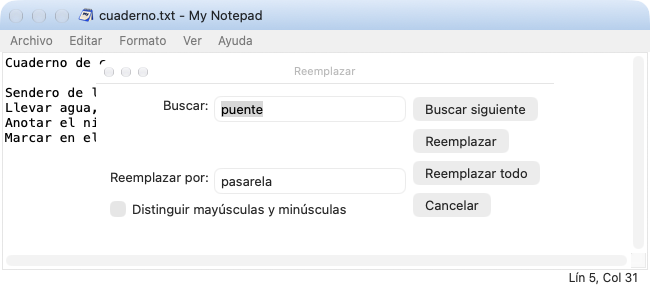
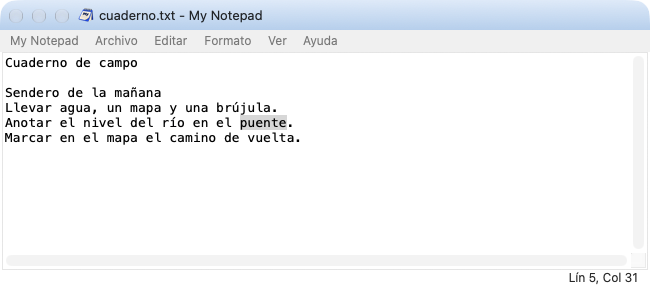
Publish My Notepad 1.0.3 for macOS
The menus inside the window start with My Notepad, the Replace panel always keeps
Replace with level with Replace All, and the screenshots show the editor without the
Replace panel, in eight languages.

diff --git a/Tests/main.swift b/Tests/main.swift
@@ -144,7 +144,11 @@ func item(_ menuTitle: String, _ identifier: String) -> NSMenuItem? {
 do {
   let titles = NSApp.mainMenu?.items.map(\.title) ?? []
   check(titles == ["My Notepad", "File", "Edit", "Format", "View", "Window", "Help"], "the menu bar has the application menu, the five of the original, Window and Help")
-  check(app.menuStrip.arrangedSubviews.count == 5, "the strip inside the window keeps the five menus of the original")
+  let stripTitles = app.menuStrip.arrangedSubviews.compactMap { ($0 as? NSButton)?.title }
+  check(stripTitles.count == 6 && stripTitles.first == "My Notepad",
+    "the strip inside the window opens with the application's menu, then the five menus of the original")
+  check(app.menuStrip.arrangedSubviews.compactMap { $0 as? NSButton }.filter { $0.tag >= 0 }.map(\.tag) == [0, 1, 2, 3, 4],
+    "the access keys still reach the five menus")
   let own = NSApp.mainMenu?.items.first?.submenu?.items.map(\.title) ?? []
   check(own.contains("About My Notepad") && own.contains("Hide My Notepad") && own.contains("Hide Others")
     && own.contains("Show All") && own.last == "Quit My Notepad", "the application menu has About, the hiding commands and Quit")
@@ -270,6 +274,18 @@ do {
   panel.exact.state = .on
   panel.replaceAll()
   check(app.editor.string == "Bridge, footbridge and BRIDGE", "Replace All respects Match case")
+
+  // The layout of the Replace panel used to be ambiguous: about one opening in a hundred put the
+  // Replace with field right under Find what. Lay it out many times and compare.
+  var tops: Set<Int> = []
+  for _ in 0..<200 {
+    let replace = FinderPanel(owner: app, replacing: true)
+    guard let content = replace.panel.contentView else { break }
+    content.layoutSubtreeIfNeeded()
+    tops.insert(Int(content.bounds.height - replace.sub.convert(replace.sub.bounds, to: content).maxY))
+    replace.panel.close()
+  }
+  check(tops.count == 1, "the Replace panel always places Replace with in the same spot")
 }
 
 // Font size

diff --git a/Sources/Menus.swift b/Sources/Menus.swift
@@ -17,6 +17,14 @@ extension Notepad {
     app.addItem(
       withTitle: L("Quit My Notepad"), action: #selector(NSApplication.terminate(_:)),
       keyEquivalent: "q")
+    // The application's own menu opens the strip too: it holds what has no other place in the
+    // window (hiding the application, quitting).
+    let appButton = NSButton(title: "My Notepad", target: self, action: #selector(showAppMenu(_:)))
+    appButton.font = .systemFont(ofSize: 12)
+    appButton.isBordered = false
+    appButton.tag = -1
+    appButton.widthAnchor.constraint(equalToConstant: appButton.intrinsicContentSize.width + 12).isActive = true
+    menuStrip.addArrangedSubview(appButton)
     for title in [L("File"), L("Edit"), L("Format"), L("View"), L("Help")] {
       let menu = NSMenu(title: title)
       main.addItem(withTitle: title, action: nil, keyEquivalent: "").submenu = menu
@@ -128,6 +136,10 @@ extension Notepad {
     add(4, "About My Notepad") { self.showAbout() }
   }
   @objc func invoke(_ item: NSMenuItem) { handlers[item.tag]?() }
+  @objc func showAppMenu(_ sender: NSButton) {
+    NSApp.mainMenu?.items.first?.submenu?.popUp(
+      positioning: nil, at: NSPoint(x: 0, y: sender.isFlipped ? sender.bounds.maxY : 0), in: sender)
+  }
   @objc func showMenu(_ sender: NSButton) {
     menus[sender.tag].popUp(
       positioning: nil, at: NSPoint(x: 0, y: sender.isFlipped ? sender.bounds.maxY : 0), in: sender)

diff --git a/Sources/App.swift b/Sources/App.swift
@@ -101,7 +101,9 @@ final class Notepad: NSObject, NSApplicationDelegate, NSWindowDelegate, NSTextVi
     if mods == .option, let key = event.charactersIgnoringModifiers?.lowercased(),
       let i = L("menu.accessKeys").map(String.init).firstIndex(of: key)
     {
-      showMenu(menuStrip.arrangedSubviews[i] as! NSButton)
+      if let button = menuStrip.arrangedSubviews.compactMap({ $0 as? NSButton }).first(where: { $0.tag == i }) {
+        showMenu(button)
+      }
       return true
     }
     if window.firstResponder === editor, !editor.hasMarkedText(),

diff --git a/Sources/Search.swift b/Sources/Search.swift
@@ -65,6 +65,10 @@ final class FinderPanel: NSObject {
       rows.append((L("Direction:"), direction))
     }
     let grid = owner.form(rows)
+    // The buttons column is taller than the fields, so the grid is stretched. Without this, which
+    // row takes the extra height is ambiguous and the Replace with field sometimes moved up.
+    grid.row(at: 0).height = term.fittingSize.height
+    grid.row(at: 1).yPlacement = .bottom
     let buttons = NSStackView()
     buttons.orientation = .vertical
     buttons.alignment = .leading

diff --git a/docs/readme/ja.md b/docs/readme/ja.md
@@ -8,8 +8,8 @@ macOS 用のシンプルなテキストエディタです。.txt ファイルを
 
 ## macOS 版のダウンロード
 
-- **[Apple シリコン（M シリーズ）用をダウンロード](https://github.com/leoars/My-Notepad/releases/download/1.0.2/My-Notepad-1.0.2-arm64.pkg)**
-- **[Intel 用をダウンロード](https://github.com/leoars/My-Notepad/releases/download/1.0.2/My-Notepad-1.0.2-x86_64.pkg)**
+- **[Apple シリコン（M シリーズ）用をダウンロード](https://github.com/leoars/My-Notepad/releases/download/1.0.3/My-Notepad-1.0.3-arm64.pkg)**
+- **[Intel 用をダウンロード](https://github.com/leoars/My-Notepad/releases/download/1.0.3/My-Notepad-1.0.3-x86_64.pkg)**
 
 macOS 12 以降に対応しています。 [最新版を見る](https://github.com/leoars/My-Notepad/releases/latest)
 
@@ -68,7 +68,7 @@ My Notepad は、余計なもののないテキストエディタが欲しいと
 
 ### インターフェイスと言語
 
-- macOS のメニューバーに加えて、ウインドウ内にもメニュー（ファイル、編集、書式、表示、ヘルプ）があります。**Option** とメニューの文字キーを押すと、キーボードでメニューを開けます。
+- macOS のメニューバーに加えて、ウインドウ内にもメニュー（My Notepad、ファイル、編集、書式、表示、ヘルプ）があります。**Option** とメニューの文字キーを押すと、キーボードでメニューを開けます。
 - ウインドウの位置とサイズは記憶されます。
 - ポルトガル語、英語、スペイン語、フランス語、ドイツ語、イタリア語、日本語、韓国語に対応しています。
 

diff --git a/docs/readme/ko.md b/docs/readme/ko.md
@@ -8,8 +8,8 @@ macOS용 간단한 텍스트 편집기입니다. .txt 파일을 열고, 쓰고, 
 
 ## macOS용 다운로드
 
-- **[Apple Silicon(M 시리즈)용 다운로드](https://github.com/leoars/My-Notepad/releases/download/1.0.2/My-Notepad-1.0.2-arm64.pkg)**
-- **[Intel용 다운로드](https://github.com/leoars/My-Notepad/releases/download/1.0.2/My-Notepad-1.0.2-x86_64.pkg)**
+- **[Apple Silicon(M 시리즈)용 다운로드](https://github.com/leoars/My-Notepad/releases/download/1.0.3/My-Notepad-1.0.3-arm64.pkg)**
+- **[Intel용 다운로드](https://github.com/leoars/My-Notepad/releases/download/1.0.3/My-Notepad-1.0.3-x86_64.pkg)**
 
 macOS 12 이상이 필요합니다. [최신 릴리스 보기](https://github.com/leoars/My-Notepad/releases/latest)
 
@@ -68,7 +68,7 @@ My Notepad는 군더더기 없는 텍스트 편집기가 아쉬워서 시작한 
 
 ### 인터페이스와 언어
 
-- macOS 메뉴 막대와 별도로 창 안에도 메뉴(파일, 편집, 서식, 보기, 도움말)가 있습니다. **Option** 키와 메뉴의 글자 키를 함께 누르면 키보드로 메뉴를 열 수 있습니다.
+- macOS 메뉴 막대와 별도로 창 안에도 메뉴(My Notepad, 파일, 편집, 서식, 보기, 도움말)가 있습니다. **Option** 키와 메뉴의 글자 키를 함께 누르면 키보드로 메뉴를 열 수 있습니다.
 - 창의 위치와 크기를 기억합니다.
 - 포르투갈어, 영어, 스페인어, 프랑스어, 독일어, 이탈리아어, 일본어, 한국어를 지원합니다.
 

diff --git a/docs/readme/de.md b/docs/readme/de.md
@@ -8,8 +8,8 @@ Ein einfacher Texteditor für macOS. Eine .txt-Datei öffnen, schreiben und mit 
 
 ## Download für macOS
 
-- **[Für Apple Silicon (M-Serie) herunterladen](https://github.com/leoars/My-Notepad/releases/download/1.0.2/My-Notepad-1.0.2-arm64.pkg)**
-- **[Für Intel herunterladen](https://github.com/leoars/My-Notepad/releases/download/1.0.2/My-Notepad-1.0.2-x86_64.pkg)**
+- **[Für Apple Silicon (M-Serie) herunterladen](https://github.com/leoars/My-Notepad/releases/download/1.0.3/My-Notepad-1.0.3-arm64.pkg)**
+- **[Für Intel herunterladen](https://github.com/leoars/My-Notepad/releases/download/1.0.3/My-Notepad-1.0.3-x86_64.pkg)**
 
 Erfordert macOS 12 oder neuer. [Zur neuesten Version](https://github.com/leoars/My-Notepad/releases/latest)
 
@@ -68,7 +68,7 @@ Schreiben Sie `.LOG` in die erste Zeile einer Datei, speichern Sie sie und öffn
 
 ### Oberfläche und Sprachen
 
-- Menüs im Fenster (Datei, Bearbeiten, Format, Ansicht, Hilfe), zusätzlich zur Menüleiste von macOS. **Option** und der Buchstabe eines Menüs öffnen es über die Tastatur.
+- Menüs im Fenster (My Notepad, Datei, Bearbeiten, Format, Ansicht, Hilfe), zusätzlich zur Menüleiste von macOS. **Option** und der Buchstabe eines Menüs öffnen es über die Tastatur.
 - Position und Größe des Fensters bleiben gespeichert.
 - Verfügbar auf Portugiesisch, Englisch, Spanisch, Französisch, Deutsch, Italienisch, Japanisch und Koreanisch.
 

diff --git a/docs/readme/fr.md b/docs/readme/fr.md
@@ -8,8 +8,8 @@ Un éditeur de texte simple pour macOS. Ouvrez un .txt, écrivez et enregistrez 
 
 ## Télécharger pour macOS
 
-- **[Télécharger pour Apple Silicon (série M)](https://github.com/leoars/My-Notepad/releases/download/1.0.2/My-Notepad-1.0.2-arm64.pkg)**
-- **[Télécharger pour Intel](https://github.com/leoars/My-Notepad/releases/download/1.0.2/My-Notepad-1.0.2-x86_64.pkg)**
+- **[Télécharger pour Apple Silicon (série M)](https://github.com/leoars/My-Notepad/releases/download/1.0.3/My-Notepad-1.0.3-arm64.pkg)**
+- **[Télécharger pour Intel](https://github.com/leoars/My-Notepad/releases/download/1.0.3/My-Notepad-1.0.3-x86_64.pkg)**
 
 Nécessite macOS 12 ou une version ultérieure. [Voir la dernière version](https://github.com/leoars/My-Notepad/releases/latest)
 
@@ -68,7 +68,7 @@ Saisissez `.LOG` sur la première ligne d’un fichier, enregistrez-le et ouvrez
 
 ### Interface et langues
 
-- Des menus dans la fenêtre (Fichier, Édition, Format, Affichage, Aide), en plus de la barre des menus de macOS. **Option** avec la lettre du menu l’ouvre au clavier.
+- Des menus dans la fenêtre (My Notepad, Fichier, Édition, Format, Affichage, Aide), en plus de la barre des menus de macOS. **Option** avec la lettre du menu l’ouvre au clavier.
 - La position et la taille de la fenêtre sont mémorisées.
 - Disponible en portugais, anglais, espagnol, français, allemand, italien, japonais et coréen.
 

diff --git a/docs/readme/it.md b/docs/readme/it.md
@@ -8,8 +8,8 @@ Un editor di testo semplice per macOS. Apri un .txt, scrivi e salva con le scorc
 
 ## Scarica per macOS
 
-- **[Scarica per Apple Silicon (serie M)](https://github.com/leoars/My-Notepad/releases/download/1.0.2/My-Notepad-1.0.2-arm64.pkg)**
-- **[Scarica per Intel](https://github.com/leoars/My-Notepad/releases/download/1.0.2/My-Notepad-1.0.2-x86_64.pkg)**
+- **[Scarica per Apple Silicon (serie M)](https://github.com/leoars/My-Notepad/releases/download/1.0.3/My-Notepad-1.0.3-arm64.pkg)**
+- **[Scarica per Intel](https://github.com/leoars/My-Notepad/releases/download/1.0.3/My-Notepad-1.0.3-x86_64.pkg)**
 
 Richiede macOS 12 o successivo. [Vedi la versione più recente](https://github.com/leoars/My-Notepad/releases/latest)
 
@@ -68,7 +68,7 @@ Scrivi `.LOG` sulla prima riga di un file, salvalo e riaprilo. L’editor aggiun
 
 ### Interfaccia e lingue
 
-- Menu all’interno della finestra (File, Modifica, Formato, Visualizza, Aiuto), oltre alla barra dei menu di macOS. **Option** con la lettera del menu lo apre dalla tastiera.
+- Menu all’interno della finestra (My Notepad, File, Modifica, Formato, Visualizza, Aiuto), oltre alla barra dei menu di macOS. **Option** con la lettera del menu lo apre dalla tastiera.
 - La posizione e la dimensione della finestra vengono ricordate.
 - Disponibile in portoghese, inglese, spagnolo, francese, tedesco, italiano, giapponese e coreano.
 

diff --git a/docs/readme/es.md b/docs/readme/es.md
@@ -8,8 +8,8 @@ Un editor de texto sencillo para macOS. Abre un .txt, escribe y guarda con los a
 
 ## Descargar para macOS
 
-- **[Descargar para Apple Silicon (serie M)](https://github.com/leoars/My-Notepad/releases/download/1.0.2/My-Notepad-1.0.2-arm64.pkg)**
-- **[Descargar para Intel](https://github.com/leoars/My-Notepad/releases/download/1.0.2/My-Notepad-1.0.2-x86_64.pkg)**
+- **[Descargar para Apple Silicon (serie M)](https://github.com/leoars/My-Notepad/releases/download/1.0.3/My-Notepad-1.0.3-arm64.pkg)**
+- **[Descargar para Intel](https://github.com/leoars/My-Notepad/releases/download/1.0.3/My-Notepad-1.0.3-x86_64.pkg)**
 
 Requiere macOS 12 o posterior. [Ver la última versión](https://github.com/leoars/My-Notepad/releases/latest)
 
@@ -68,7 +68,7 @@ Escribe `.LOG` en la primera línea de un archivo, guárdalo y vuelve a abrirlo.
 
 ### Interfaz e idiomas
 
-- Menús dentro de la ventana (Archivo, Editar, Formato, Ver, Ayuda), además de la barra de menús de macOS. **Option** con la letra del menú lo abre desde el teclado.
+- Menús dentro de la ventana (My Notepad, Archivo, Editar, Formato, Ver, Ayuda), además de la barra de menús de macOS. **Option** con la letra del menú lo abre desde el teclado.
 - La posición y el tamaño de la ventana se recuerdan.
 - Disponible en portugués, inglés, español, francés, alemán, italiano, japonés y coreano.
 

diff --git a/README.md b/README.md
@@ -8,8 +8,8 @@ Um editor de texto simples para macOS. Abra um .txt, escreva e salve com os atal
 
 ## Baixar para macOS
 
-- **[Baixar para Apple Silicon (série M)](https://github.com/leoars/My-Notepad/releases/download/1.0.2/My-Notepad-1.0.2-arm64.pkg)**
-- **[Baixar para Intel](https://github.com/leoars/My-Notepad/releases/download/1.0.2/My-Notepad-1.0.2-x86_64.pkg)**
+- **[Baixar para Apple Silicon (série M)](https://github.com/leoars/My-Notepad/releases/download/1.0.3/My-Notepad-1.0.3-arm64.pkg)**
+- **[Baixar para Intel](https://github.com/leoars/My-Notepad/releases/download/1.0.3/My-Notepad-1.0.3-x86_64.pkg)**
 
 Requer macOS 12 ou posterior. [Ver a versão mais recente](https://github.com/leoars/My-Notepad/releases/latest)
 
@@ -68,7 +68,7 @@ Digite `.LOG` como primeira linha de um arquivo, salve e abra-o novamente. O edi
 
 ### Interface e idiomas
 
-- Menus dentro da janela (Arquivo, Editar, Formatar, Exibir, Ajuda), além da barra de menus do macOS. **Option** com a letra do menu o abre pelo teclado.
+- Menus dentro da janela (My Notepad, Arquivo, Editar, Formatar, Exibir, Ajuda), além da barra de menus do macOS. **Option** com a letra do menu o abre pelo teclado.
 - A posição e o tamanho da janela são lembrados.
 - Disponível em português, inglês, espanhol, francês, alemão, italiano, japonês e coreano.
 

diff --git a/docs/readme/en.md b/docs/readme/en.md
@@ -8,8 +8,8 @@ A simple text editor for macOS. Open a .txt file, write and save with the shortc
 
 ## Download for macOS
 
-- **[Download for Apple Silicon (M-series)](https://github.com/leoars/My-Notepad/releases/download/1.0.2/My-Notepad-1.0.2-arm64.pkg)**
-- **[Download for Intel](https://github.com/leoars/My-Notepad/releases/download/1.0.2/My-Notepad-1.0.2-x86_64.pkg)**
+- **[Download for Apple Silicon (M-series)](https://github.com/leoars/My-Notepad/releases/download/1.0.3/My-Notepad-1.0.3-arm64.pkg)**
+- **[Download for Intel](https://github.com/leoars/My-Notepad/releases/download/1.0.3/My-Notepad-1.0.3-x86_64.pkg)**
 
 Requires macOS 12 or later. [View the latest release](https://github.com/leoars/My-Notepad/releases/latest)
 
@@ -68,7 +68,7 @@ Type `.LOG` on the first line of a file, save it and reopen it. My Notepad appen
 
 ### Interface and languages
 
-- Menus inside the window (File, Edit, Format, View, Help), in addition to the macOS menu bar. **Option** plus a menu’s letter opens it from the keyboard.
+- Menus inside the window (My Notepad, File, Edit, Format, View, Help), in addition to the macOS menu bar. **Option** plus a menu’s letter opens it from the keyboard.
 - The window position and size are remembered.
 - Available in Portuguese, English, Spanish, French, German, Italian, Japanese and Korean.
 
